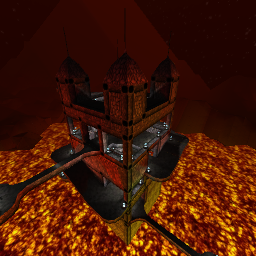
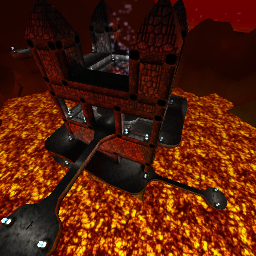
particle fixes, tower updated
Former-commit-id: 182ed2df16e97e04d79af6d1f8910975186eb7ad

diff --git a/src/engine/renderparticles.cpp b/src/engine/renderparticles.cpp
@@ -892,52 +892,6 @@ static void regularsplash(int type, int color, int radius, int num, int fade, co
     splash(type, color, radius, num, fade, p, size);
 }
 
-//maps 'classic' particles types to newer types and colors
-// @NOTE potentially this and the following public funcs can be tidied up, but lets please defer that for a little bit...
-static struct partmap { int type; int color; float size; } partmaps[] =
-{
-    { PART_SPARK, 0xB49B4B, 0.6f },              // 0 yellow: sparks
-    { PART_SMOKE_RISE_SLOW, 0x222222, 0.6f },    // 1 greyish:   small slowly rising smoke
-    { PART_EDIT, 0x3232FF, 0.3f },               // 2 blue:   edit mode entities
-    { PART_BLOOD, 0x60FFFF, 3.0f },              // 3 red:    blood spats (note: rgb is inverted)
-    { PART_FIREBALL, 0xFFC8C8, 4.8f },           // 4 yellow: fireball1
-    { PART_SMOKE_RISE_SLOW, 0x222222, 2.4f },    // 5 greyish:   big  slowly rising smoke
-    { PART_PLASMA, 0xFFFFFF, 4.8f },             // 6 blue:   fireball2
-    { PART_ELECTRIC, 0xFFFFFF, 4.8f },           // 7 green:  big fireball3
-    { PART_TEXT_RISE, 0xFFFFFF, 3.0f },          // 8 TEXT RED
-    { PART_TEXT_RISE, 0xFFFFFF, 4.0f },          // 9 TEXT GREEN
-    { PART_STREAK, 0xFFC864, 0.8f },             // 10 yellow flare
-    { PART_TEXT, 0xFFFFFF, 2.0f },               // 11 TEXT DARKGREEN, SMALL, NON-MOVING
-    { PART_ELECTRIC, 0xFFFFFF, 2.0f },           // 12 green small fireball3
-    { PART_TEXT, 0xFFFFFF, 2.0f },               // 13 TEXT RED, SMALL, NON-MOVING
-    { PART_TEXT, 0xFFFFFF, 2.0f },               // 14 TEXT GREY, SMALL, NON-MOVING
-    { PART_TEXT_RISE, 0xFFFFFF, 4.0f },          // 15 TEXT YELLOW
-    { PART_TEXT, 0xFFFFFF, 2.0f },               // 16 TEXT BLUE, SMALL, NON-MOVING
-    { PART_METER, 0xFF1932, 2.0f },              // 17 METER RED, SMALL, NON-MOVING
-    { PART_METER_VS, 0x3219FF, 2.0f },           // 18 METER BLUE, SMALL, NON-MOVING
-    { PART_METER_VS, 0xFF1932, 2.0f },           // 19 METER RED vs. BLUE, SMALL, NON-MOVING (note swaps r<->b)
-    { PART_METER_VS, 0x3219FF, 2.0f },           // 20 METER BLUE vs. RED, SMALL, NON-MOVING (note swaps r<->b)
-    { PART_SMOKE_SINK, 0x222222, 0.6f },         // 21 greyish:   small  slowly sinking smoke trail
-    { PART_EXPLOSION, 0x993300, 4.0f },          // 22 red explosion fireball
-    { PART_EXPLOSION, 0x884400, 4.0f },          // 23 orange explosion fireball
-    { PART_TEXT, 0xFFFFFF, 1.2f },               // 24 TEXT WHITE, TINY, NON-MOVING
-    { PART_SMOKE_RISE_FAST, 0x222222, 2.4f },    // 25 greyish:   big  fast rising smoke
-    { PART_TEXT, 0xFFFFFF, 2.5f },               // 26 TEXT WHITE, NON-MOVING
-    { PART_TEXT, 0xFFFFFF, 2.0f },               // 27 TEXT WHITE, SMALL, NON-MOVING
-    { PART_LIGHTNING, 0xFFFFFF, 0.6f },          // 28 lightning
-    { PART_LIGHTNING, 0xFF2222, 0.6f },          // 29 lightning: red
-    { PART_LIGHTNING, 0x2222FF, 0.6f },          // 30 lightning: blue
-    { PART_EXPLOSION_NO_GLARE, 0x802020, 4.8f }, // 31 fireball: red, no glare
-    { PART_EXPLOSION_NO_GLARE, 0x2020FF, 4.8f }, // 32 fireball: blue, no glare
-    { PART_EXPLOSION_NO_GLARE, 0x208020, 4.8f }, // 33 fireball: green, no glare
-    { PART_TEXT_RISE, 0xFFFFFF, 4.0f },          // 34 TEXT BLUE
-    { PART_EXPLOSION, 0x802020, 4.8f },          // 35 fireball: red
-    { PART_EXPLOSION, 0x2020FF, 4.8f },          // 36 fireball: blue
-    // fill the above @UNUSED slots first!
-};
-
-static inline float partsize(int type) { return partmaps[type].size; }
-
 void regular_part_create(int type, int fade, const vec &p, int color, float size, physent *pl, int delay)
 {
     if(shadowmapping) return;
@@ -1168,7 +1122,7 @@ void makeparticle(vec &o, int attr1, int attr2, int attr3, int attr4, int attr5)
         case 9:  //smoke
         case 10: //water
         {
-            const int typemap[]   = {    10,  -1,  -1,   16,   5,   6,   18 };
+            const int typemap[]   = { PART_STREAK, -1,  -1,  PART_LIGHTNING, PART_FIREBALL, PART_SMOKE, PART_SPARK };
             const float sizemap[] = { 0.28f, 0.0f, 0.0f, 0.28f, 4.8f, 2.4f, 0.60f };
             int type = typemap[attr1-4];
             float size = sizemap[attr1-4];

diff --git a/src/game/game.cpp b/src/game/game.cpp
@@ -983,8 +983,14 @@ struct gameclient : igameclient
 		glDisable(GL_DEPTH_TEST);
 		glEnable(GL_BLEND);
 
-		float curx = index < POINTER_EDIT || mousestyle() == 2 ? cursorx : aimx,
-			cury = index < POINTER_EDIT || mousestyle() == 2 ? cursory : aimy;
+		float curx = aimx, cury = aimy;
+		if(index < POINTER_EDIT || mousestyle() == 2)
+		{
+			curx = cursorx;
+			cury = cursory;
+		}
+		else if(isthirdperson() ? thirdpersonaim() : firstpersonaim())
+			curx = cury = 0.5f;
 
 		drawpointer(w, h, index, curx, cury, r, g, b);
 
@@ -1846,7 +1852,7 @@ struct gameclient : igameclient
 					pitch = player1->pitch;
 				}
 			}
-
+/*
 			if(inzoom() && player1->gunselect == GUN_RIFLE)
 			{
 				float amt = lastmillis-lastzoom < zoomtime() ? clamp(float(lastmillis-lastzoom)/float(zoomtime()), 0.f, 1.f) : 1.f;
@@ -1854,7 +1860,7 @@ struct gameclient : igameclient
 				vec off(vec(vec(pos).sub(camera1->o)).mul(amt));
 				camera1->o.add(off);
 			}
-
+*/
 			if(allowmove(player1))
 			{
 				if(isthirdperson())
